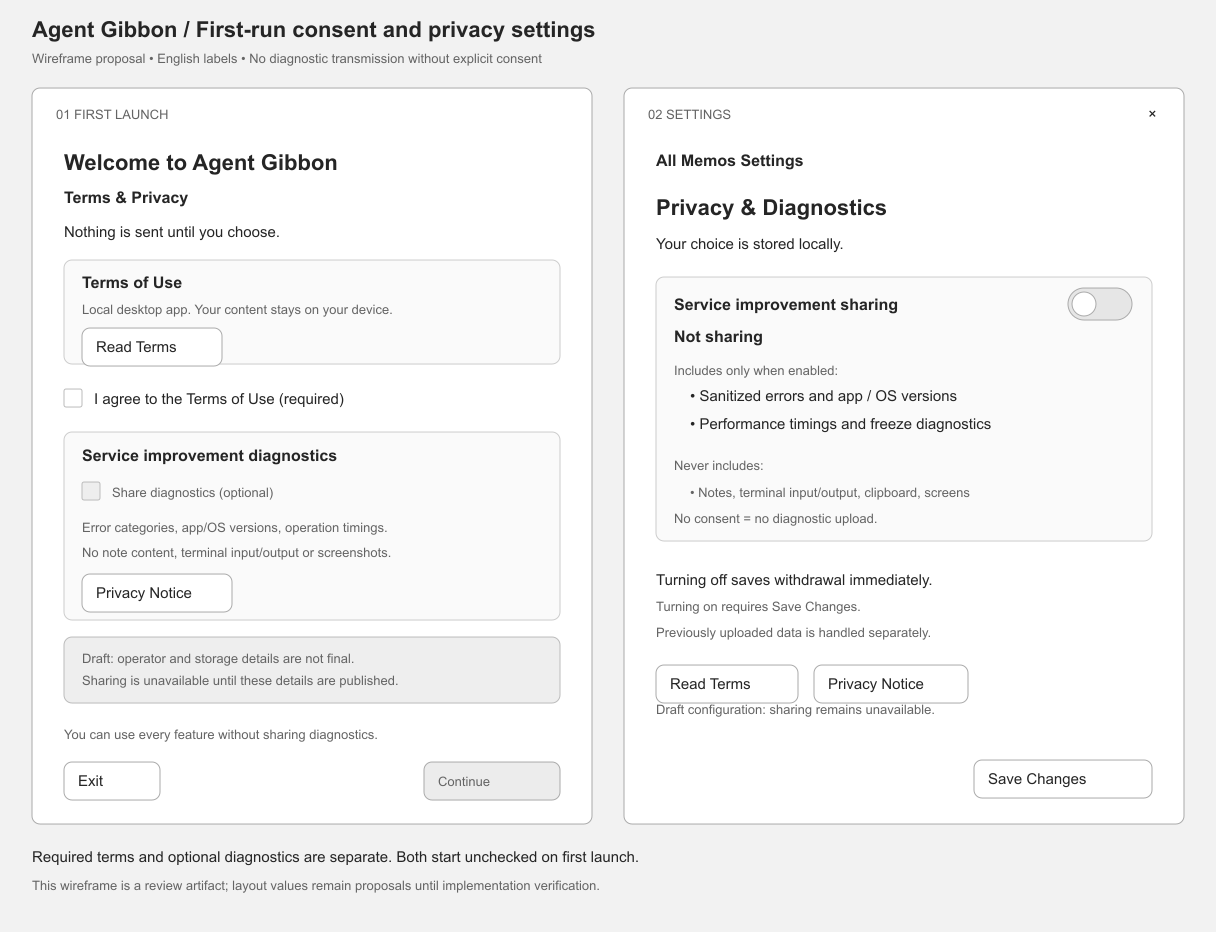
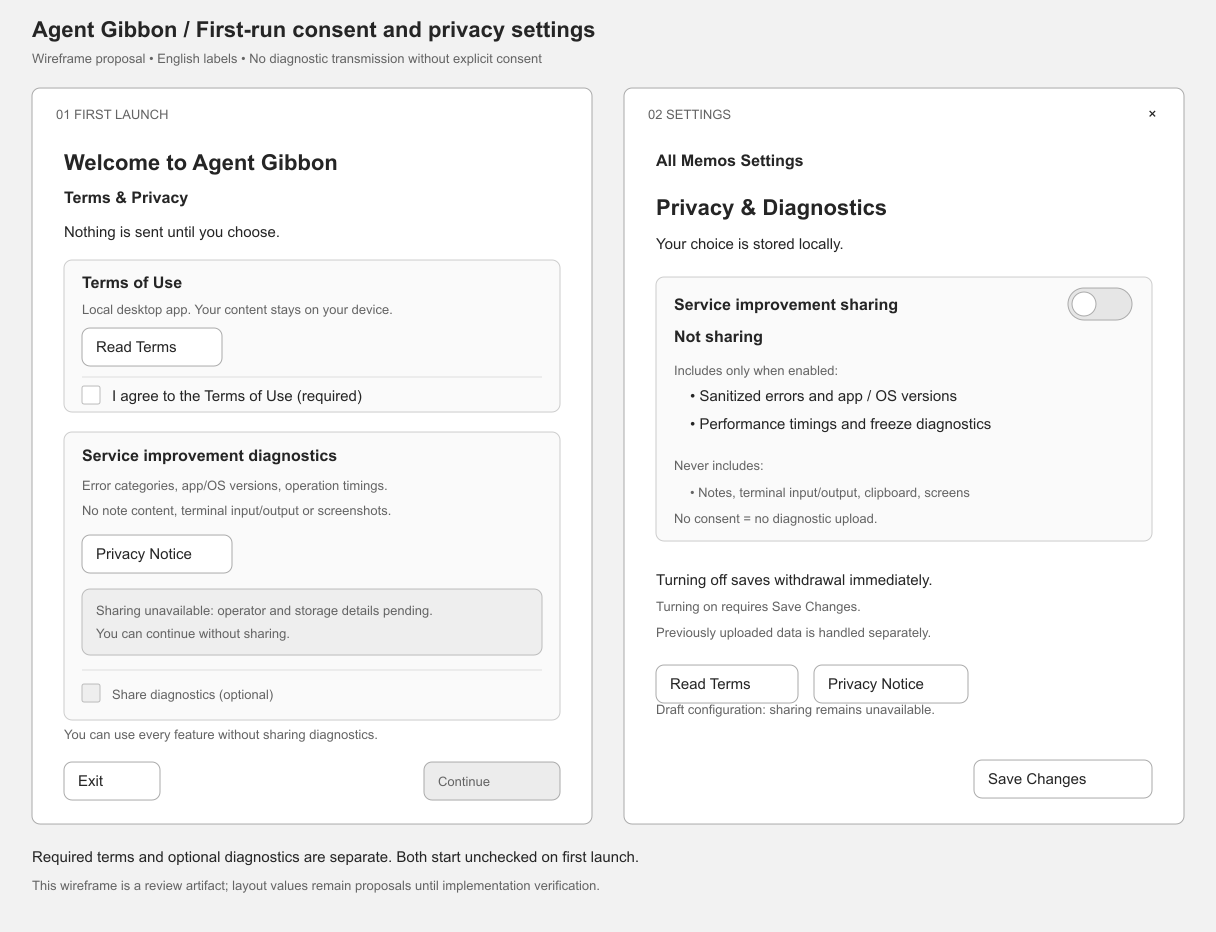
동의 체크박스를 설명 카드 하단에 묶고 첫 실행 탐색을 숨김
약관과 진단 전송의 동의 위치를 카드 내부 하단으로 통일하고 운영 정보 미정 안내를 진단 선택 바로 위로 이동한다. 약관 수락 전에는 메모·설정 탐색을 숨긴다. UI 80개 검사와 개발 빌드, macOS 실제 그룹핑·탐색 표시 및 SVG·PNG를 확인했다.

Changed region(s): [[0.0625, 0.4979, 0.4688, 0.7779], [0.0625, 0.4045, 0.3125, 0.4356], [0.4375, 0.6534, 0.4688, 0.6845]]

diff --git a/ui/manager.html b/ui/manager.html
@@ -1,6 +1,6 @@
 <!doctype html>
 <html lang="ko"><head><script src="telemetry.js"></script><meta charset="UTF-8"><meta name="viewport" content="width=device-width,initial-scale=1"><title>메모 관리</title><link rel="stylesheet" href="manager.css"><script src="privacy.js" defer></script><script src="manager.js" defer></script></head>
-<body><header><strong>Agent Gibbon</strong><nav aria-label="관리 탐색"><button id="notes-nav" aria-pressed="true">모든 메모</button><button id="settings-nav" aria-pressed="false">설정</button></nav></header>
+<body><header><strong>Agent Gibbon</strong><nav id="manager-navigation" aria-label="관리 탐색" hidden><button id="notes-nav" aria-pressed="true">모든 메모</button><button id="settings-nav" aria-pressed="false">설정</button></nav></header>
 <div id="error" role="alert" hidden>메모를 읽지 못했습니다. <button id="retry">다시 시도</button></div>
 <main id="notes-page" hidden><aside aria-label="메모 목록"><div class="list-heading"><h2>모든 메모</h2><button id="refresh" aria-label="메모 목록 새로고침">새로고침</button></div><div id="list"></div></aside><section id="detail" aria-label="메모 상세" tabindex="0"><p>메모를 선택하세요.</p></section></main>
 <section id="settings-page" hidden><h1>Settings</h1><div class="privacy-card privacy-settings"><h2>Privacy &amp; Diagnostics</h2><p>Your choice is stored locally.</p>
@@ -13,13 +13,19 @@
   <div class="privacy-card">
     <h1 id="privacy-welcome-title">Welcome to Agent Gibbon</h1><h2>Terms &amp; Privacy</h2>
     <p>Nothing is sent until you choose.</p>
-    <div class="privacy-box"><h3>Terms of Use</h3><p>Local desktop app. Your content stays on your device.</p><button id="privacy-read-terms" type="button">Read Terms</button></div>
-    <label class="privacy-choice"><input id="privacy-terms" type="checkbox" aria-required="true" disabled> I agree to the Terms of Use <span>(required)</span></label>
-    <div class="privacy-box"><h3>Service improvement diagnostics</h3>
-      <label class="privacy-choice"><input id="privacy-share" type="checkbox" disabled> Share diagnostics <span>(optional)</span></label>
+    <div class="privacy-box" role="group" aria-labelledby="privacy-terms-title">
+      <h3 id="privacy-terms-title">Terms of Use</h3><p>Local desktop app. Your content stays on your device.</p>
+      <button id="privacy-read-terms" type="button">Read Terms</button>
+      <label class="privacy-choice privacy-agreement"><input id="privacy-terms" type="checkbox" aria-required="true" disabled><span class="privacy-choice-label">I agree to the Terms of Use <span>(required)</span></span></label>
+    </div>
+    <div class="privacy-box" role="group" aria-labelledby="privacy-diagnostics-title">
+      <h3 id="privacy-diagnostics-title">Service improvement diagnostics</h3>
       <p>Includes sanitized errors, app/OS versions, operation timings and freeze diagnostics.</p>
-      <p>Excludes notes, terminal input/output, clipboard and screenshots.</p><button id="privacy-read-notice" type="button">Privacy Notice</button></div>
-    <p id="privacy-draft" class="privacy-notice">Draft: operator, storage region and retention details are not final. Sharing is unavailable until these details are published.</p>
+      <p>Excludes notes, terminal input/output, clipboard and screenshots.</p>
+      <button id="privacy-read-notice" type="button">Privacy Notice</button>
+      <p id="privacy-draft" class="privacy-notice">Sharing unavailable in this draft: operator, contact, storage region and retention details are not final. You can continue without sharing.</p>
+      <label class="privacy-choice privacy-agreement"><input id="privacy-share" type="checkbox" aria-describedby="privacy-draft" disabled><span class="privacy-choice-label">Share diagnostics <span>(optional)</span></span></label>
+    </div>
     <p>You can use every feature without sharing diagnostics.</p>
     <div class="privacy-actions"><button id="privacy-exit" type="button">Exit</button><button id="privacy-continue" type="button" disabled>Continue</button></div>
   </div>

diff --git a/ui/manager.css b/ui/manager.css
@@ -3,3 +3,5 @@
 .list-heading{display:flex;align-items:center;justify-content:space-between;margin-bottom:16px}.list-heading h2{margin:0}.list-heading button{font-size:12px;padding:4px 8px}#list button{white-space:nowrap;overflow:hidden;text-overflow:ellipsis}
 
 #privacy-welcome{flex:1;min-height:0;overflow:auto;padding:24px} .privacy-card{max-width:640px;margin:0 auto;padding:12px 8px}.privacy-card h1{font-size:25px;margin:0 0 12px}.privacy-card h2{font-size:21px;margin:12px 0}.privacy-card h3{font-size:17px;margin:0 0 10px}.privacy-box{border:1px solid #bbb;border-radius:8px;background:#fafafa;padding:18px;margin:20px 0}.privacy-box p{font-size:14px;color:#444}.privacy-choice{display:flex;align-items:flex-start;gap:10px;margin:16px 0}.privacy-choice input{width:18px;height:18px;flex:0 0 18px;margin-top:3px;accent-color:#333}.privacy-choice span{color:#555}.privacy-actions{display:flex;align-items:center;justify-content:space-between;gap:16px;margin-top:28px}.privacy-notice{background:#eee;border:1px solid #ccc;border-radius:6px;padding:14px;font-size:14px}.privacy-links{display:flex;gap:12px}.privacy-settings{margin:0;max-width:720px}button:disabled{opacity:.55;cursor:default}#privacy-error{padding:12px 24px;background:#f8eeee;color:#722}#privacy-retry{align-self:flex-start;margin:8px 24px}#privacy-storage-warning{padding:0 24px}.privacy-document{position:fixed;inset:16px;z-index:20;overflow:auto;background:#fff;border:2px solid #666;padding:24px;box-shadow:0 8px 24px #0003}.privacy-document-heading{display:flex;justify-content:space-between;align-items:center;gap:20px}.privacy-document article{max-width:800px;margin:24px auto;overflow-wrap:anywhere}.privacy-document article h1{font-size:24px}.privacy-document article h2{margin-top:28px}#privacy-retry[hidden]{display:none}
+
+.privacy-agreement{margin:20px 0 0;padding-top:16px;border-top:1px solid #ddd}.privacy-choice .privacy-choice-label{color:inherit}

diff --git a/ui/privacy.js b/ui/privacy.js
@@ -6,19 +6,21 @@
   const api = window.gibbonPrivacy = {
     accepted: () => Boolean(state?.terms_accepted),
     onAccepted: null,
-    showWelcome: () => { el('privacy-welcome').hidden=false; el('notes-page').hidden=true; el('settings-page').hidden=true; },
+    showWelcome: () => { el('manager-navigation').hidden=true; el('privacy-welcome').hidden=false; el('notes-page').hidden=true; el('settings-page').hidden=true; },
     refresh,
   };
   function error(message) { el('privacy-error').textContent=message; el('privacy-error').hidden=!message; el('privacy-retry').hidden=!message; }
   function render() {
     const accepted=api.accepted(), ready=Boolean(state?.notice_ready);
     el('privacy-welcome').hidden=accepted;
+    el('manager-navigation').hidden=!accepted;
     if(!busy){
       el('privacy-terms').checked=accepted;
       el('privacy-share').checked=Boolean(state?.allowed ?? state?.sharing);
       el('privacy-setting-share').checked=Boolean(state?.allowed ?? state?.sharing);
     }
     el('privacy-share').disabled=busy || !ready;
+    el('privacy-share').setAttribute('aria-describedby',ready?'':'privacy-draft');
     el('privacy-setting-share').disabled=busy || !ready;
     el('privacy-continue').disabled=busy || !state || !el('privacy-terms').checked;
     el('privacy-save').disabled=busy || !state;

diff --git a/docs/verification/privacy-grouping-20261106.md b/docs/verification/privacy-grouping-20261106.md
@@ -1,0 +1,31 @@
+# 동의 항목 그룹핑·탐색 정리 — 2026-11-06
+
+## 요청과 반영
+
+- 약관 동의 체크박스를 약관 설명 카드의 하단으로 옮겼다.
+- 진단 동의도 같은 카드의 하단으로 옮겨 제목 → 설명 → 문서 열람 → 동의 순서를 맞췄다. 동의 영역에는 같은 구분선을 적용했다.
+- 운영 정보 미정으로 진단 체크박스가 비활성화된 이유를 같은 카드 안, 체크박스 바로 위에 표시했다. 미정 상태에서 전송을 막는 기존 정책은 유지했다.
+- 최초 약관 수락 전에는 All Memos·Settings 탐색을 초기 HTML부터 숨긴다. 동의 상태를 읽지 못한 경우에도 숨기며, 수락 뒤 표시하는 동작은 UI 테스트로 확인했다.
+- 실제 수신 조건·동의 저장 형식·약관 본문·기존 메모의 위치/숨김 정책은 변경하지 않았다.
+
+## 자동 검사와 출처
+
+- 루트 `/Users/egoinglee/dev/project/agent-gibbon`, instance `dev-a5210ae16e79437d38490c8f`.
+- 기준 HEAD `cec17ce` + 이번 UI 변경으로 `npm run dev:build` 실행, 성공 로그 `/tmp/gibbon-consent-grouping-build.log`.
+- `npm run test:ui`: **80개 통과**. 초기 탐색 숨김·수락 뒤 표시·상태 로드 실패 시 숨김·안내의 접근성 연결을 기존 동의 테스트에 포함했다. 로그 `/tmp/gibbon-consent-grouping-ui.log`.
+- `git diff --check` 통과. Rust 소스 변경이 없어 Rust 테스트를 반복 실행하지 않았다.
+- 새 앱 PID **97684**, 실행 파일 `/Users/egoinglee/dev/project/agent-gibbon/src-tauri/target/debug/agent-gibbon`.
+- 같은 루트의 개발 CLI 응답에서 예상 instance와 `onboarding_required:true`를 확인했다. `/tmp/gibbon-consent-grouping-launch.json`, `/tmp/gibbon-consent-grouping-diagnostics.json`.
+- 네이티브 창 ID **38296**, 제목 `Agent Gibbon [DEV main · a5210ae1] — 메모 관리`, 944×480. 정확한 PID/실행 파일과 native 창을 대조했다.
+
+## 실제 UI 확인과 한계
+
+Orca Computer Use의 해당 PID/창 상태에서 약관 체크박스가 Terms of Use 그룹 아래, 진단 체크박스가 Service improvement diagnostics 그룹 아래에 위치함을 확인했다. All Memos·Settings 탐색은 접근성 트리에서 사라졌다. [실제 화면 캡처](privacy-grouping-macos.png)에서 진단 카드 하단의 안내·선택 영역과 탐색 없는 헤더를 시각 확인했다.
+
+체크박스나 Continue를 대신 눌러 사용자의 동의를 저장하지 않았다. 스크롤 요청은 synthetic input / unverified였으므로 스크롤 동작 검증을 통과로 기록하지 않는다. 캡처된 화면과 접근성 트리의 실제 표시 상태만 근거로 사용했다. 전체 동의 후 진입·키보드 이동은 이번 native 검사 범위가 아니다.
+
+[와이어프레임 SVG](../design/privacy-onboarding.svg)와 [PNG](../design/privacy-onboarding.png)도 동일한 그룹핑으로 갱신해 rsvg-convert 렌더와 시각 확인을 마쳤다. [디자인 시스템](../design-system.md)에 기준을 반영했다.
+
+이번 배치 변경의 Windows/Intel UI와 iMac 배포는 미검증이다. 이전 Windows 빌드 검증을 이번 UI의 실행 증거로 재사용하지 않는다.
+
+확신도: 배치·탐색의 macOS native 표시 Conf 4, 수락 후 전환은 자동 검사 Conf 3. 위험도 Low(화면 그룹핑·탐색 표시의 국소 변경).

diff --git a/docs/design-system.md b/docs/design-system.md
@@ -13,6 +13,7 @@
 - 사용자 요청으로 **동의 전 모든 진단 전송 차단**, 필수 약관과 선택적 전송의 분리, 처음에는 모두 체크 해제, 거부해도 기능 사용 가능을 적용한다. 운영 이름·새 레이블은 영어를 사용하며 법률 문서 초안은 한국어로 제공한다.
 - 별도 메모나 새 네이티브 창 대신 기존 Manager Window에 첫 실행 페이지를 표시한다. 현재 약관이 수락되지 않으면 일반 기능 진입을 막고, Exit 또는 창 닫기는 앱을 종료한다. 설정에서 약관·개인정보 안내를 다시 읽고 전송 동의를 철회한다.
 - 운영자·문의처·실제 저장 지역·보유기간이 미정인 초안 빌드에서는 전송 체크박스를 비활성화하고 이유를 표시한다. 약관만 수락해 전송 없이 사용할 수 있다. 읽기 문서는 앱에 포함하고 외부 링크 이동·외부 문서 로드를 하지 않는다.
+- 동의 체크박스는 각 설명 카드 안의 하단에 배치한다. 약관과 진단 모두 제목 → 설명 → 문서 열람 → 동의 순서를 유지하고, 구분선으로 선택 영역을 표시한다. 진단의 미정 운영 정보 안내는 같은 카드 안의 체크박스 바로 위에 둔다. 첫 실행 동의 화면에서는 All Memos·Settings 탐색을 숨기고 약관 수락 뒤 표시한다. [배치 검증 기록](verification/privacy-grouping-20261106.md)에 실제 화면과 한계를 남긴다.
 - 화면 구성은 [와이어프레임 SVG](design/privacy-onboarding.svg)와 [PNG](design/privacy-onboarding.png)에 제시한다. 프레임 크기는 제안값이며 실제 앱은 기존 관리 창 크기에서 스크롤한다. 기존 메모의 외형·위치·숨김 기준은 바꾸지 않는다.
 - 필수 약관을 체크하기 전 Continue는 비활성화한다. 전송 선택과 묶어 체크하거나 전체 동의를 기본값으로 제공하지 않는다. 저장 실패는 성공으로 표시하지 않는다. 동의·철회·재시작·손상 파일 검증 결과는 [검증 기록](verification/privacy-consent-20261106.md)에 구분해 남긴다. macOS/Windows 개발 빌드와 자동 검사는 통과했으며 실제 네이티브 동의 조작·Windows 프리징 재현은 미검증이다.
 
